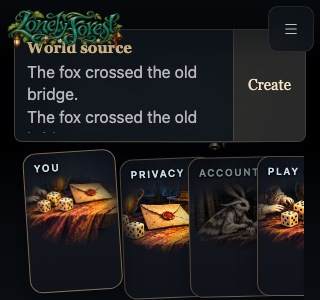
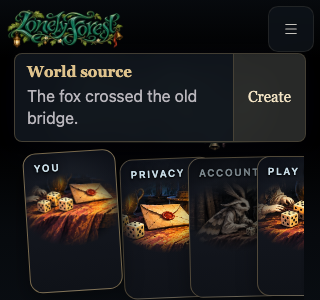
Keep short keyboard viewports clear for source editing

diff --git a/v2/card-game/style.css b/v2/card-game/style.css
@@ -2853,6 +2853,11 @@ body .beat-live {
   font-size: 16px;
   line-height: 1.4;
 }
+@media (max-height: 400px) {
+  #action-beat .action-beat-note[contenteditable="plaintext-only"] {
+    max-height: 3rem;
+  }
+}
 .beat-action #card-actions {
   /* A strip wider than a very narrow box (200% text) wraps its words. */
   flex: 1 1 auto;
